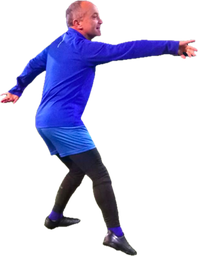
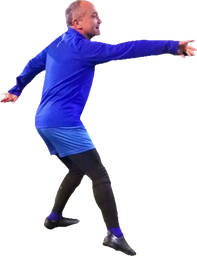
Usa LucianoOK.jpg come personaggio e mostra la foto nel menu
- assets/player.png rigenerato da LucianoOK.jpg (sfondo bianco rimosso,
  bordo eroso per eliminare l'alone del JPEG, orientato verso destra)
- Il riquadro del menu ora mostra la foto di Luciano appena è caricata
- Minigioco: le facce usano le foto reali di Luciano e Claudio

diff --git a/index.html b/index.html
@@ -271,7 +271,7 @@ const MEDIA = {
   item:   { src:'assets/item.png',   emoji:'🎩', img:null },
   logo:   { src:'assets/logo.png',   emoji:'🪩', img:null },
 };
-function loadImg(m, src){ const im=new Image(); im.onload=()=>{ m.img=im; }; im.onerror=()=>{}; im.src=src; }
+function loadImg(m, src, cb){ const im=new Image(); im.onload=()=>{ m.img=im; if(cb) cb(); }; im.onerror=()=>{}; im.src=src; }
 function saveSticker(k, src){
   const saved = JSON.parse(localStorage.getItem('tb_stickers')||'{}');
   saved[k]=src;
@@ -324,7 +324,7 @@ function loadProfile(){
   if(!PROFILE.name || PROFILE.name==='Il Terzino') PROFILE.name=DEFAULT_NAME;
 }
 function persistProfile(){ try{ localStorage.setItem('tb_profile', JSON.stringify(PROFILE)); }catch(e){ alert('Impossibile salvare il profilo: immagini troppo pesanti.'); } }
-function applyProfileToMedia(){ for(const k in MEDIA){ const src=PROFILE.stickers[k]||localStorageSource(k)||MEDIA[k].src; MEDIA[k].src=src; loadImg(MEDIA[k],src); } }
+function applyProfileToMedia(){ for(const k in MEDIA){ const src=PROFILE.stickers[k]||localStorageSource(k)||MEDIA[k].src; MEDIA[k].src=src; loadImg(MEDIA[k],src, k==='player'?refreshHero:null); } }
 
 /* ---------- leaderboard (scores degli amici) ---------- */
 const LB_KEY='tb_scores';
